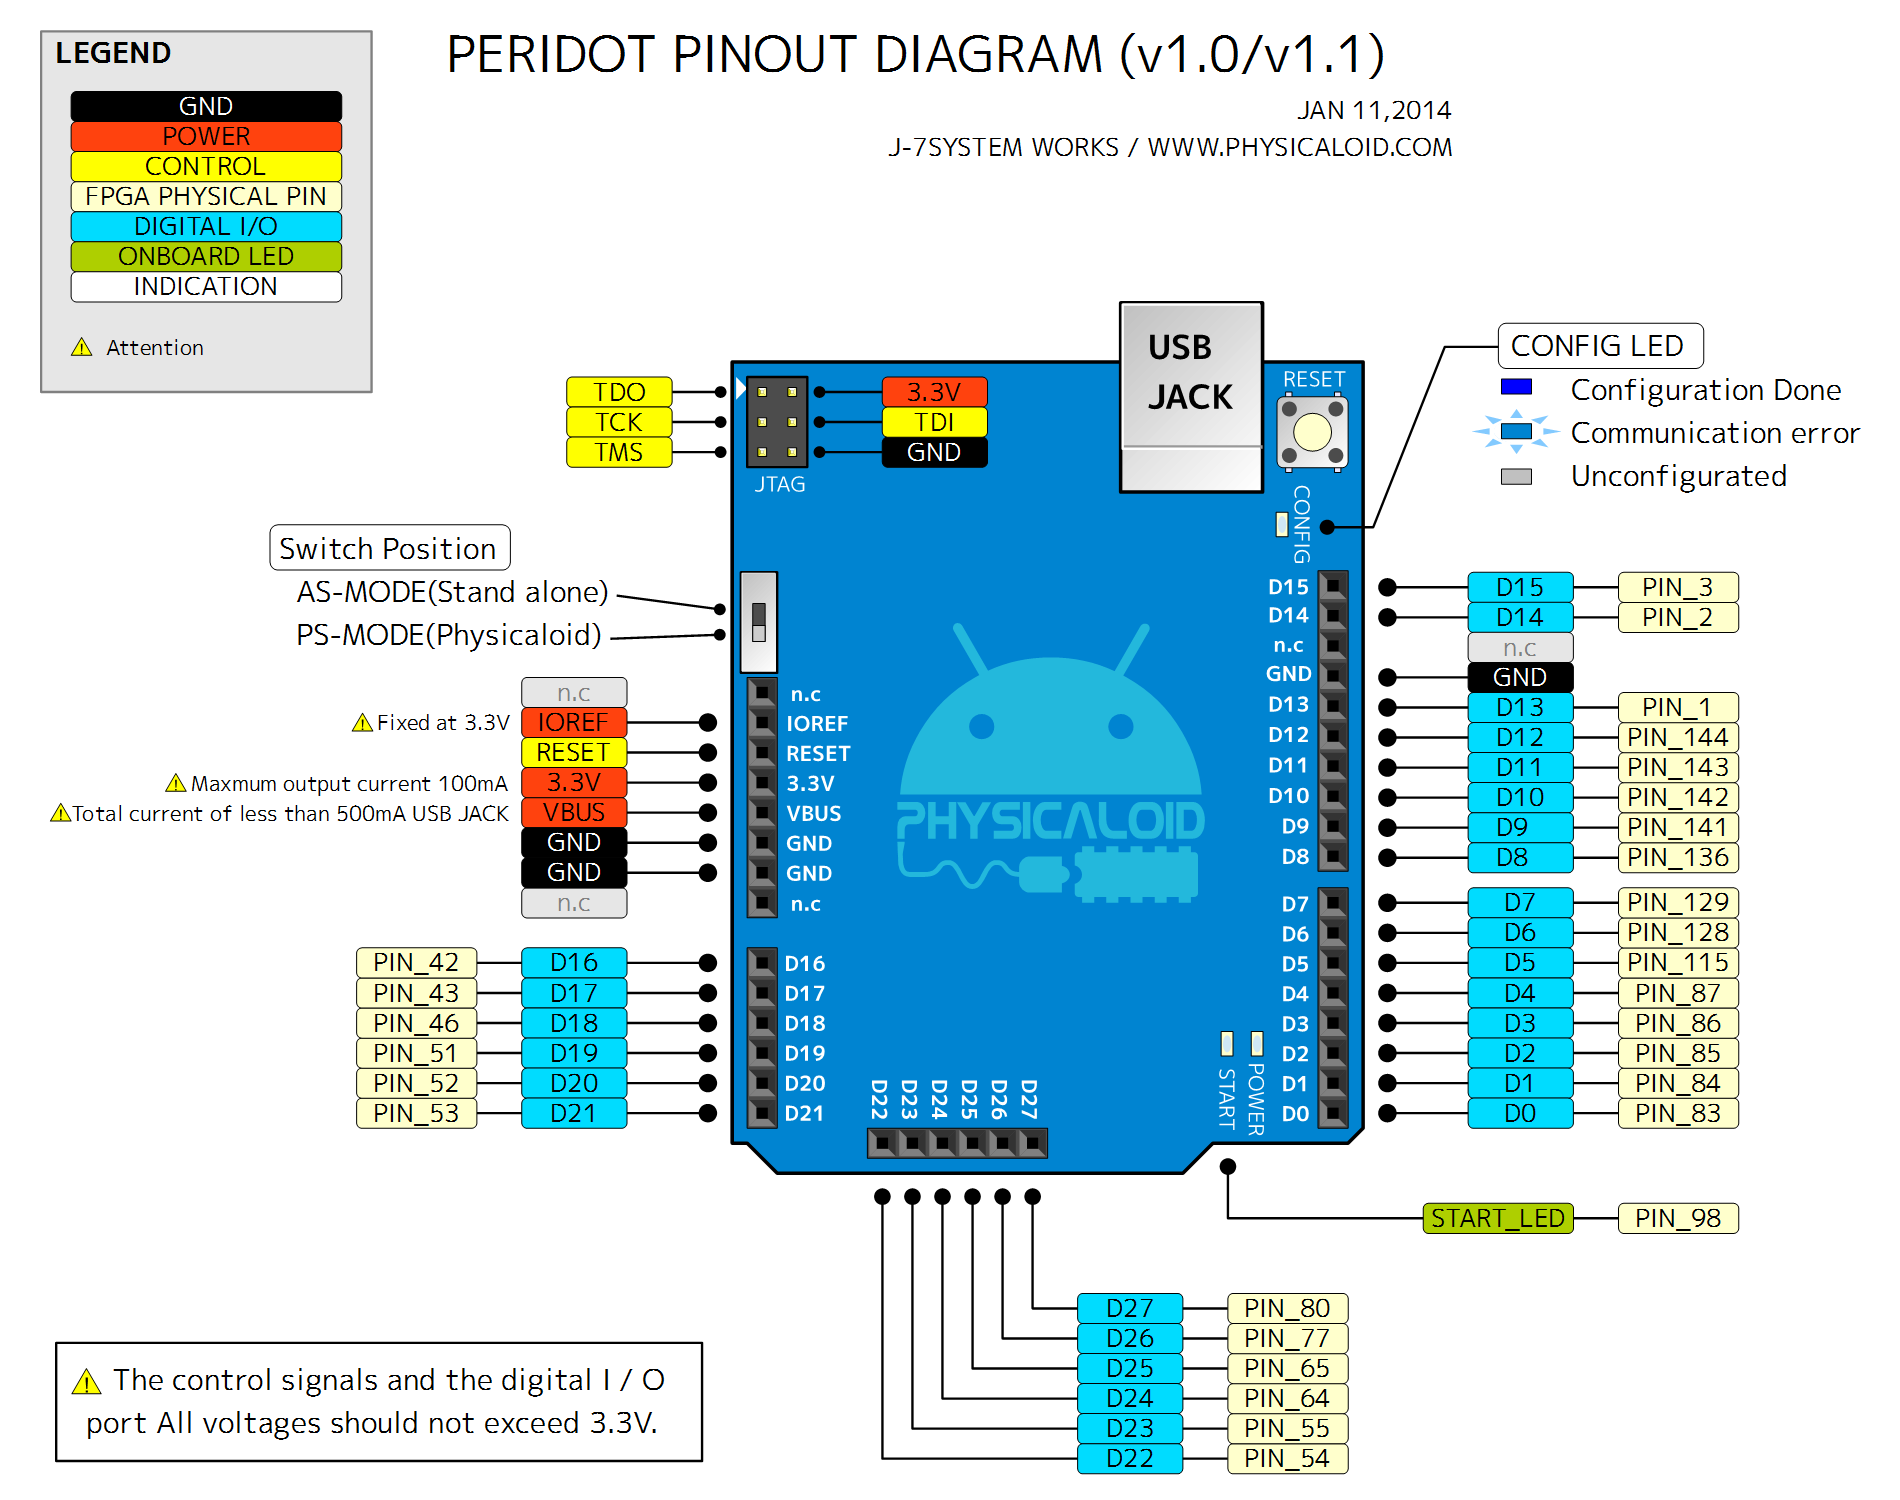
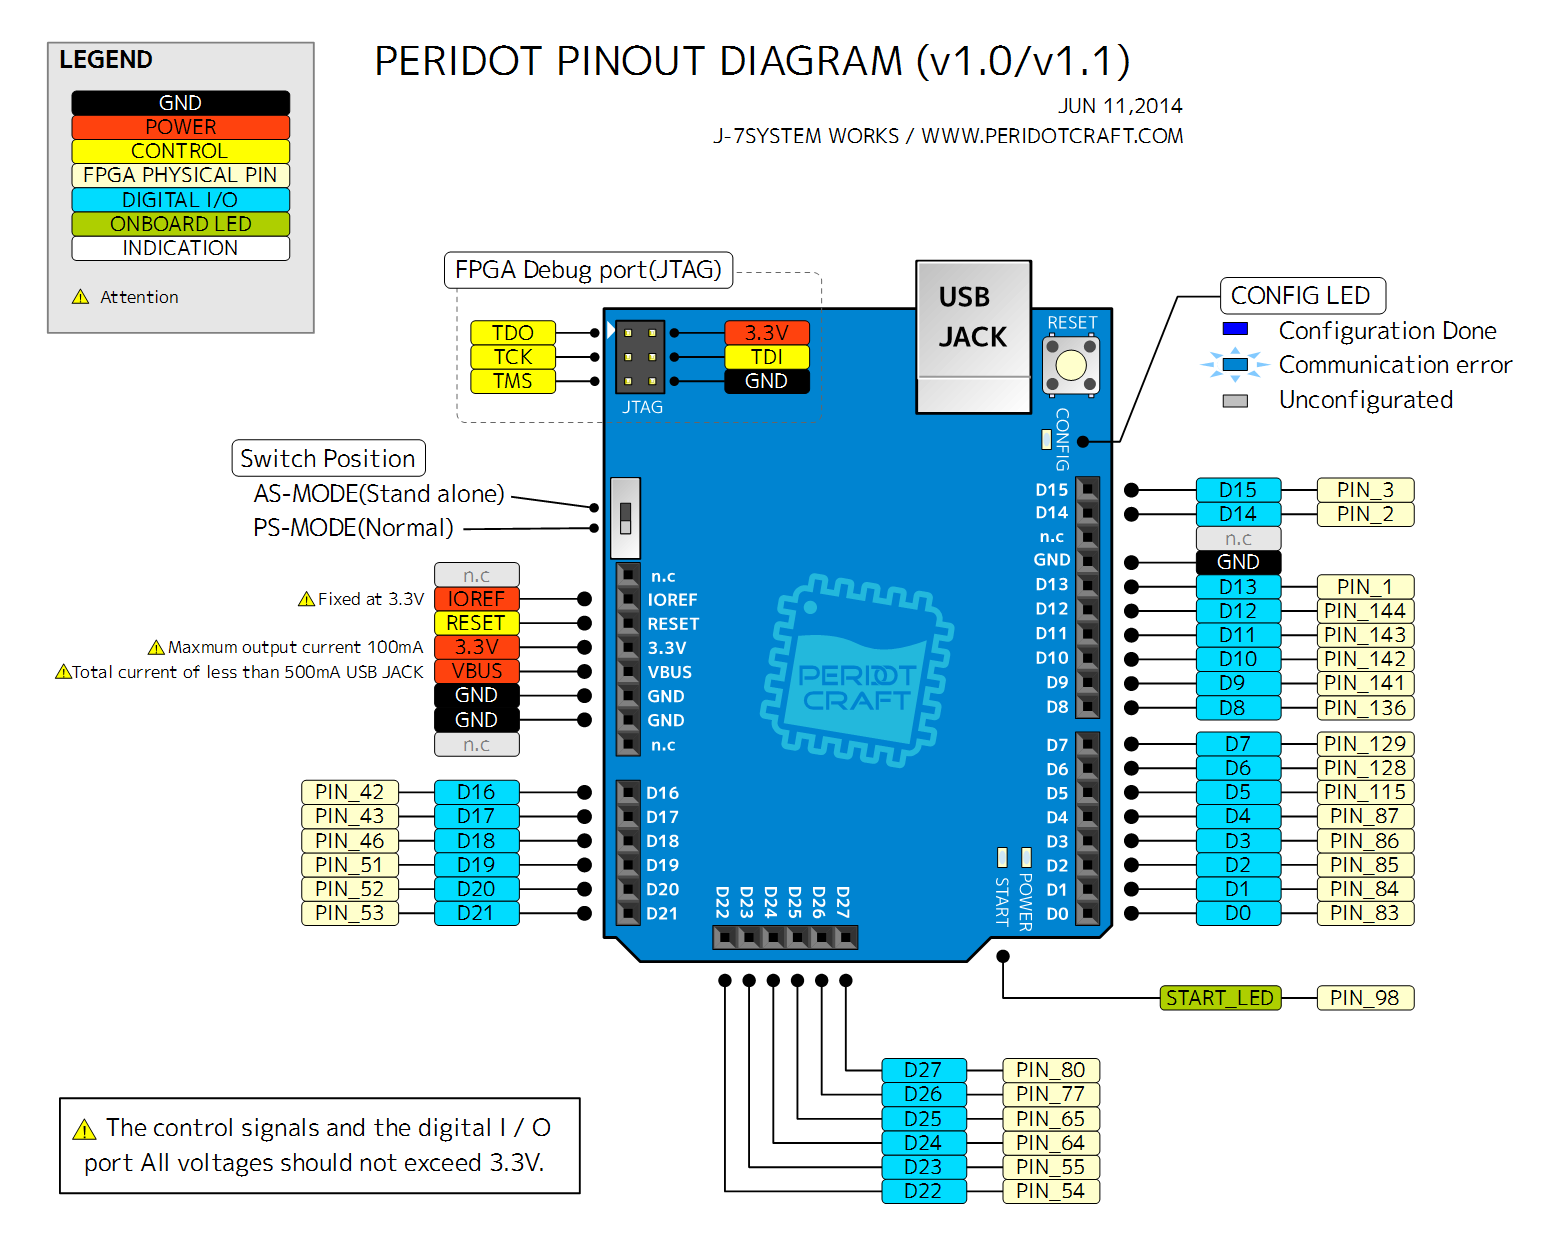
README修正

Changed region(s): [[0.0308, 0.1857, 0.9846, 0.9905], [0.0, 0.0, 0.7692, 0.2786], [0.0308, 0.8667, 0.4, 0.9905]]

diff --git a/readme.html b/readme.html
@@ -71,7 +71,7 @@ FPGAのJTAGピンが配置されています。
 <li>Digital I/O</li>
 FPGAのI/Oピンが配置されています。3.3Vを超える電圧を印加しないで下さい。<br />
 </ul>
-<p><img src="https://lh5.googleusercontent.com/-iF6dey_d6Ok/UtMTmXdj_eI/AAAAAAAAFwE/gqmaHL69SV0/w1139-h899-no/PERIDOT_PINOUT.png" alt="PERIDOT Pinout diagram" width=600 height=473/></p>
+<p><img src="https://lh3.googleusercontent.com/-XxlwNOIA3iY/U6i-dM-9mwI/AAAAAAAAHAc/RHRm6UER750/w1560-h1260-no/PERIDOT_PINOUT.png" alt="PERIDOT Pinout diagram" width=600 height=484/></p>
 
 <div class="heading"><h2>Board block diagram and schematic</h2></div>
 <p><img src="https://lh3.googleusercontent.com/-XpoVXE45BRU/UnhcutSOYOI/AAAAAAAAFss/-6QsIh6Is40/w700-h327-no/peridot_block.png" alt="PERIDOT Block diagram" /></p>

diff --git a/README.md b/README.md
@@ -57,7 +57,7 @@ Board block diagram and schematic
 Pinout diagram
 ---------------------------------
 
-![PERIDOT Pinout diagram](https://lh6.googleusercontent.com/-iF6dey_d6Ok/UtMTmXdj_eI/AAAAAAAAFwE/gqmaHL69SV0/w703-h555-no/PERIDOT_PINOUT.png)
+![PERIDOT Pinout diagram](https://lh3.googleusercontent.com/-XxlwNOIA3iY/U6i-dM-9mwI/AAAAAAAAHAc/RHRm6UER750/w700-h565-no/PERIDOT_PINOUT.png)
 [Large size](https://github.com/osafune/peridot/blob/master/pcb/PERIDOT_PINOUT.png)
 
 
